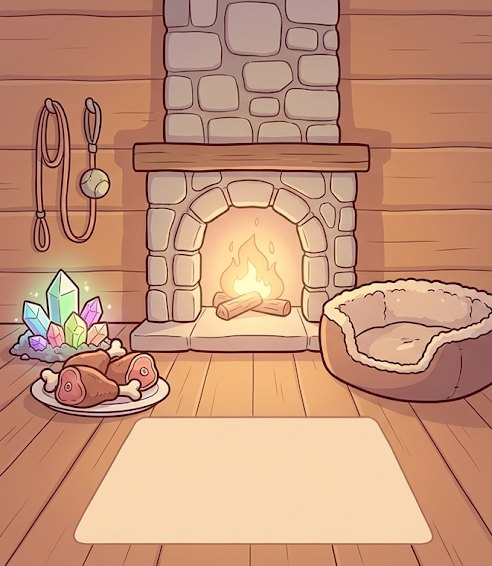
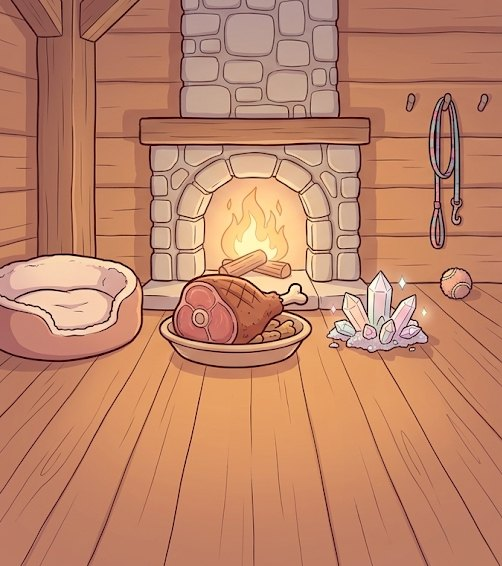
けもの第3段階のおうちの絵を描き直し（無地の敷物をやめた）・むずかしい第5段階の走り絵のマントの欠けを直す

diff --git a/index.html b/index.html
@@ -2904,7 +2904,7 @@ const HOME_EVO = {
              fail:  ["朝もやの庭で、{n}の体をていねいに拭いた。きょうは、ゆっくり休もう。", { x: .62, y: .68, h: .17, light: "saturate(.85) brightness(1.05)" }] },
   slime_5: { clear: ["庭の木の下に、{n}だけの玉座をこしらえた。王冠が、星あかりにきらりと光る。", { x: .50, y: .64, h: .19, light: "brightness(.9)" }],
              fail:  ["キルトの上で、{n}はあたたかいスープを待っている。王冠は、そっと横に置いた。", { x: .52, y: .72, h: .20, light: "brightness(.85)" }] },
-  beast_3: { clear: ["暖炉の前に、骨つき肉のごちそう。{n}のしっぽが、ずっと止まらない。", { x: .40, y: .88, h: .20 }],
+  beast_3: { clear: ["暖炉の前に、骨つき肉のごちそう。{n}のしっぽが、ずっと止まらない。", { x: .68, y: .90, h: .20 }],
              fail:  ["泥の足あとをたどると、玄関に{n}。ぬるま湯で、ひとつずつ足を洗った。", { x: .45, y: .88, h: .20 }] },
   beast_4: { clear: ["森のはずれの切り株に、光る石と木の実がどっさり。{n}が、鼻を高くして待っていた。", { x: .62, y: .72, h: .19 }],
              fail:  ["暖炉のそばで、{n}の前足に包帯を巻いた。牙をむかずに、じっとしていてくれた。", { x: .45, y: .86, h: .20, light: "sepia(.2)" }] },
